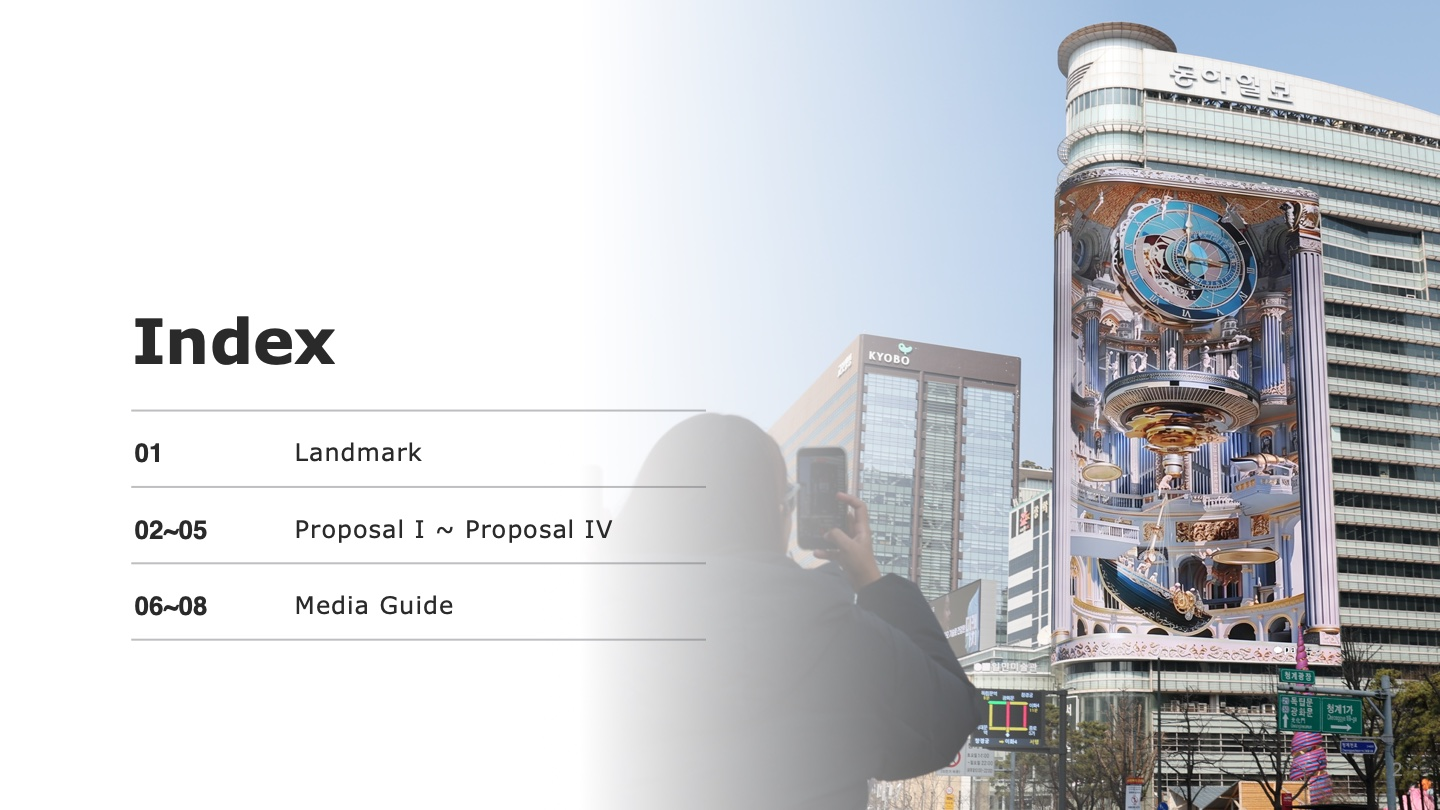
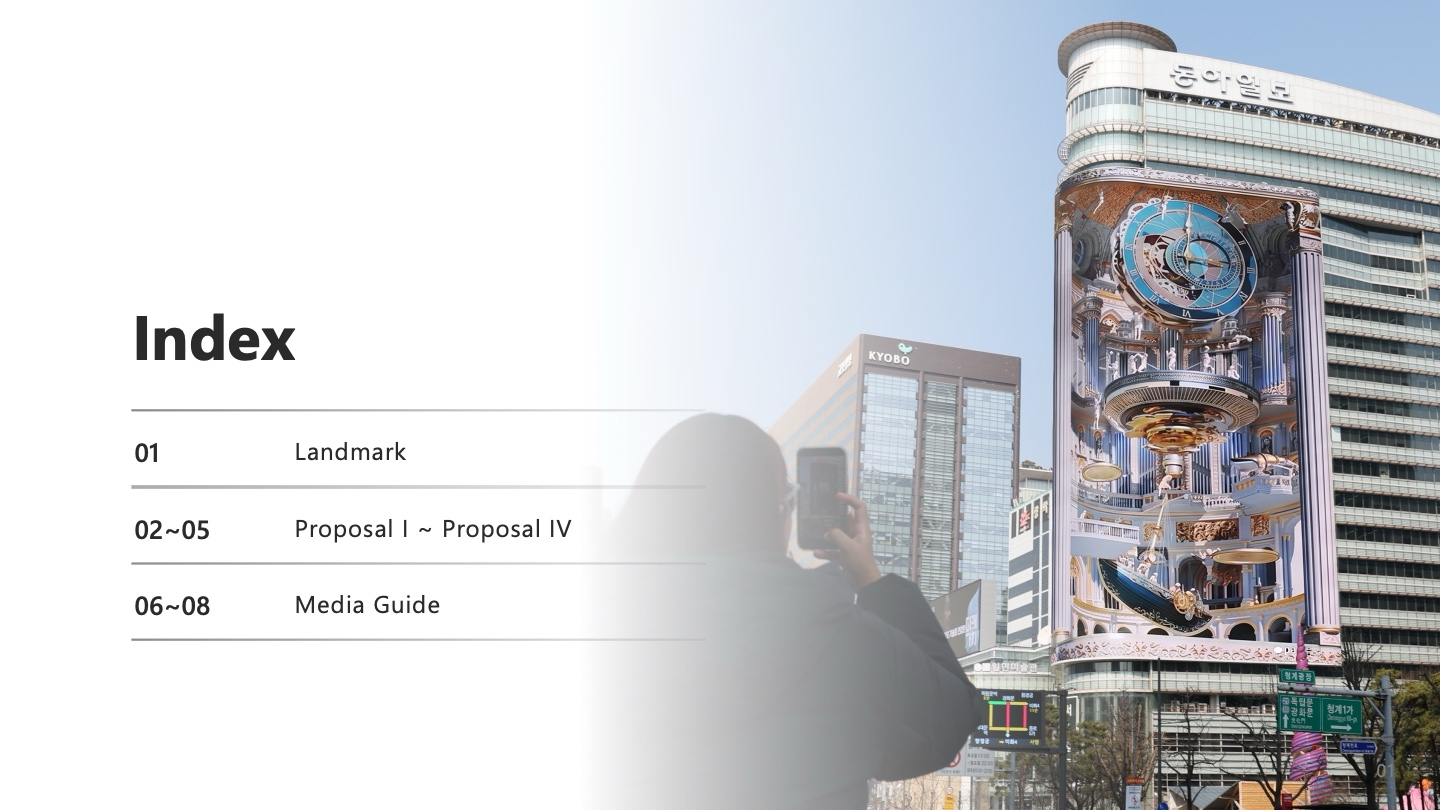
Re-render media kit slides with PowerPoint embedded fonts
Keynote substituted the deck's embedded fonts, which wrapped 'POINT 1'
on slide 3. Slides are now rendered from PowerPoint's PDF export.

diff --git a/index.html b/index.html
@@ -81,4 +81,4 @@ body::before{content:"";position:fixed;inset:0;z-index:-1;pointer-events:none;ba
 .number{color:#b5c6d0}
 .resource:hover .number,.resource:focus-visible .number{color:#526672}
 /* Access dialog */
-</style></head><body><header class="header" id="top"><a class="brand" href="#top" aria-label="LUUX 홈"><img src="landing-luux-logo.png" alt="LUUX"></a></header><main><section class="hero"><h1>DONGA MEDIA CENTER<br>MEDIA SIGNAGE</h1></section><section class="resources" id="resources" aria-label="업무 자료"><div id="rows"><a class="resource" href="media-kit.html?v=2611v7"><span class="number">01</span><span class="name">룩스 제안서</span><span class="arrow" aria-hidden="true">↗</span></a><a class="resource" href="showcase.html"><span class="number">02</span><span class="name">룩스 포트폴리오</span><span class="arrow" aria-hidden="true">↗</span></a><a class="resource" href="https://hzandi010621.github.io/2027_Key_Issue/" target="_blank" rel="noopener noreferrer"><span class="number">03</span><span class="name">2027 주요 이슈 캘린더</span><span class="arrow" aria-hidden="true">↗</span></a><a class="resource" href="analysis.html"><span class="number">04</span><span class="name">경쟁매체 분석</span><span class="arrow" aria-hidden="true">↗</span></a><a class="resource" href="reports.html"><span class="number">05</span><span class="name">옥외광고 성과 보고서</span><span class="arrow" aria-hidden="true">↗</span></a></div></section></main><footer class="footer" id="about"><div><div class="footer-word"><img src="landing-luux-logo-footer.png" alt="LUUX"></div></div><div class="footer-right"><a class="top" href="#top" aria-label="맨 위로"><svg viewBox="0 0 24 24" fill="none" aria-hidden="true"><path d="M12 21V4M4 12l8-8 8 8" stroke="currentColor" stroke-width="2.4" stroke-linecap="square" stroke-linejoin="miter"/></svg></a></div></footer></body></html>
+</style></head><body><header class="header" id="top"><a class="brand" href="#top" aria-label="LUUX 홈"><img src="landing-luux-logo.png" alt="LUUX"></a></header><main><section class="hero"><h1>DONGA MEDIA CENTER<br>MEDIA SIGNAGE</h1></section><section class="resources" id="resources" aria-label="업무 자료"><div id="rows"><a class="resource" href="media-kit.html?v=2611v7b"><span class="number">01</span><span class="name">룩스 제안서</span><span class="arrow" aria-hidden="true">↗</span></a><a class="resource" href="showcase.html"><span class="number">02</span><span class="name">룩스 포트폴리오</span><span class="arrow" aria-hidden="true">↗</span></a><a class="resource" href="https://hzandi010621.github.io/2027_Key_Issue/" target="_blank" rel="noopener noreferrer"><span class="number">03</span><span class="name">2027 주요 이슈 캘린더</span><span class="arrow" aria-hidden="true">↗</span></a><a class="resource" href="analysis.html"><span class="number">04</span><span class="name">경쟁매체 분석</span><span class="arrow" aria-hidden="true">↗</span></a><a class="resource" href="reports.html"><span class="number">05</span><span class="name">옥외광고 성과 보고서</span><span class="arrow" aria-hidden="true">↗</span></a></div></section></main><footer class="footer" id="about"><div><div class="footer-word"><img src="landing-luux-logo-footer.png" alt="LUUX"></div></div><div class="footer-right"><a class="top" href="#top" aria-label="맨 위로"><svg viewBox="0 0 24 24" fill="none" aria-hidden="true"><path d="M12 21V4M4 12l8-8 8 8" stroke="currentColor" stroke-width="2.4" stroke-linecap="square" stroke-linejoin="miter"/></svg></a></div></footer></body></html>

diff --git a/media-kit.html b/media-kit.html
@@ -6,7 +6,7 @@
         <div class="page-number">01</div>
         <img
           class="page-image"
-          src="media-kit-page-01.jpg?v=2611v7"
+          src="media-kit-page-01.jpg?v=2611v7b"
           alt="LUUX 매체소개서 1페이지"
           draggable="false"
         />
@@ -15,7 +15,7 @@
         <div class="page-number">02</div>
         <img
           class="page-image"
-          src="media-kit-page-02.jpg?v=2611v7"
+          src="media-kit-page-02.jpg?v=2611v7b"
           alt="LUUX 매체소개서 2페이지"
           draggable="false"
         />
@@ -24,7 +24,7 @@
         <div class="page-number">03</div>
         <img
           class="page-image"
-          src="media-kit-page-03.jpg?v=2611v7"
+          src="media-kit-page-03.jpg?v=2611v7b"
           alt="LUUX 매체소개서 3페이지"
           draggable="false"
         />
@@ -33,7 +33,7 @@
         <div class="page-number">04</div>
         <img
           class="page-image"
-          src="media-kit-page-04.jpg?v=2611v7"
+          src="media-kit-page-04.jpg?v=2611v7b"
           alt="LUUX 매체소개서 4페이지"
           draggable="false"
         />
@@ -42,7 +42,7 @@
         <div class="page-number">05</div>
         <img
           class="page-image"
-          src="media-kit-page-05.jpg?v=2611v7"
+          src="media-kit-page-05.jpg?v=2611v7b"
           alt="LUUX 매체소개서 5페이지"
           draggable="false"
         />
@@ -51,7 +51,7 @@
         <div class="page-number">06</div>
         <img
           class="page-image"
-          src="media-kit-page-06.jpg?v=2611v7"
+          src="media-kit-page-06.jpg?v=2611v7b"
           alt="LUUX 매체소개서 6페이지"
           draggable="false"
         />
@@ -60,7 +60,7 @@
         <div class="page-number">07</div>
         <img
           class="page-image"
-          src="media-kit-page-07.jpg?v=2611v7"
+          src="media-kit-page-07.jpg?v=2611v7b"
           alt="LUUX 매체소개서 7페이지"
           draggable="false"
         />
@@ -69,7 +69,7 @@
         <div class="page-number">08</div>
         <img
           class="page-image"
-          src="media-kit-page-08.jpg?v=2611v7"
+          src="media-kit-page-08.jpg?v=2611v7b"
           alt="LUUX 매체소개서 8페이지"
           draggable="false"
         />
@@ -78,7 +78,7 @@
         <div class="page-number">09</div>
         <img
           class="page-image"
-          src="media-kit-page-09.jpg?v=2611v7"
+          src="media-kit-page-09.jpg?v=2611v7b"
           alt="LUUX 매체소개서 9페이지"
           draggable="false"
         />
@@ -87,7 +87,7 @@
         <div class="page-number">10</div>
         <img
           class="page-image"
-          src="media-kit-page-10.jpg?v=2611v7"
+          src="media-kit-page-10.jpg?v=2611v7b"
           alt="LUUX 매체소개서 10페이지"
           draggable="false"
         />
@@ -96,7 +96,7 @@
         <div class="page-number">11</div>
         <img
           class="page-image"
-          src="media-kit-page-11.jpg?v=2611v7"
+          src="media-kit-page-11.jpg?v=2611v7b"
           alt="LUUX 매체소개서 11페이지"
           draggable="false"
         />
